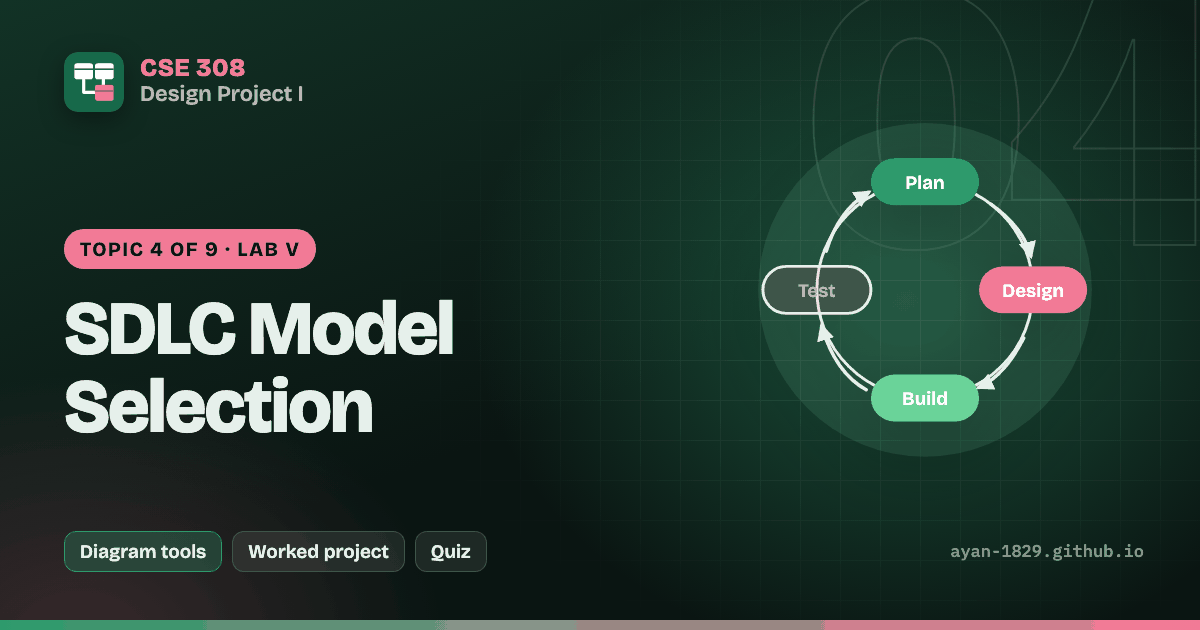
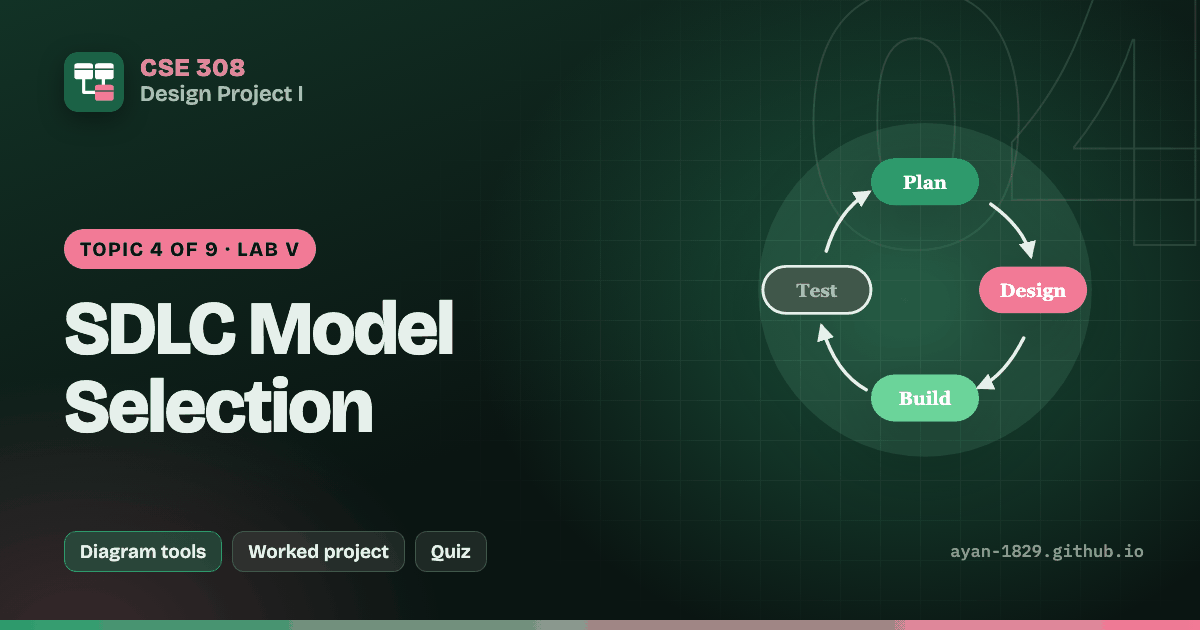
SDLC cover: make browsers load the new drawing; redraw its share card
art.js is now linked as art.js?v=2, so cached copies with the old ring
are replaced. The topic 4 share card is regenerated without the ring
and its og:image version bumped.

diff --git a/topics/04-sdlc-model-selection.html b/topics/04-sdlc-model-selection.html
@@ -22,7 +22,7 @@
 <meta property="og:title" content="SDLC Model Selection – Topic 4 | CSE 308 Design Project I">
 <meta property="og:description" content="The six stages of the software development life cycle, the waterfall, iterative, V, spiral, agile and prototyping models, and how to choose one with a weighted comparison matrix. Interactive slides, diagrams, demos and a quiz for topic 4 of the CSE 308 Design Project I course.">
 <meta property="og:url" content="https://ayan-1829.github.io/CSE-308-Design-Project-I/topics/04-sdlc-model-selection.html">
-<meta property="og:image" content="https://ayan-1829.github.io/CSE-308-Design-Project-I/img/og/04-sdlc-model-selection.png?v=2">
+<meta property="og:image" content="https://ayan-1829.github.io/CSE-308-Design-Project-I/img/og/04-sdlc-model-selection.png?v=3">
 <meta property="og:image:type" content="image/png">
 <meta property="og:image:width" content="1200">
 <meta property="og:image:height" content="630">
@@ -30,7 +30,7 @@
 <meta name="twitter:card" content="summary_large_image">
 <meta name="twitter:title" content="SDLC Model Selection – Topic 4 | CSE 308 Design Project I">
 <meta name="twitter:description" content="The six stages of the software development life cycle, the waterfall, iterative, V, spiral, agile and prototyping models, and how to choose one with a weighted comparison matrix. Interactive slides, diagrams, demos and a quiz for topic 4 of the CSE 308 Design Project I course.">
-<meta name="twitter:image" content="https://ayan-1829.github.io/CSE-308-Design-Project-I/img/og/04-sdlc-model-selection.png?v=2">
+<meta name="twitter:image" content="https://ayan-1829.github.io/CSE-308-Design-Project-I/img/og/04-sdlc-model-selection.png?v=3">
 <meta name="twitter:image:alt" content="SDLC Model Selection – Topic 4 | CSE 308 Design Project I">
 <script type="application/ld+json">{"@context": "https://schema.org", "@type": "LearningResource", "name": "SDLC Model Selection", "description": "The six stages of the software development life cycle, the waterfall, iterative, V, spiral, agile and prototyping models, and how to choose one with a weighted comparison matrix.", "position": 4, "educationalLevel": "Undergraduate", "learningResourceType": "Lecture slides", "inLanguage": "en", "isAccessibleForFree": true, "teaches": ["The SDLC has six stages: planning, requirements (SRS), design (DDS), building, testing, deployment and maintenance.", "Waterfall and V-model suit fixed requirements; the V-model plans a test for every phase.", "Iterative delivers growing versions; spiral adds a risk-analysis loop for large risky projects.", "Agile uses short sprints and constant feedback; prototyping discovers unclear requirements.", "Choose with a weighted matrix: criteria phrased so Yes is good, honest weights, recomputed totals.", "Justify the choice in words and say how you will adapt the model."], "keywords": "SDLC, software development life cycle, waterfall model, iterative model, V-model, spiral model, agile, scrum, prototyping model, SDLC model selection, comparison matrix, CSE 308", "url": "https://ayan-1829.github.io/CSE-308-Design-Project-I/topics/04-sdlc-model-selection.html", "image": "https://ayan-1829.github.io/CSE-308-Design-Project-I/img/og/04-sdlc-model-selection.png", "isPartOf": {"@type": "Course", "name": "Design Project I", "courseCode": "CSE 308", "url": "https://ayan-1829.github.io/CSE-308-Design-Project-I/"}}</script>
 <script type="application/ld+json">{"@context": "https://schema.org", "@type": "BreadcrumbList", "itemListElement": [{"@type": "ListItem", "position": 1, "name": "Design Project I", "item": "https://ayan-1829.github.io/CSE-308-Design-Project-I/"}, {"@type": "ListItem", "position": 2, "name": "Topic 4: SDLC Model Selection", "item": "https://ayan-1829.github.io/CSE-308-Design-Project-I/topics/04-sdlc-model-selection.html"}]}</script>
@@ -165,7 +165,7 @@
 <aside id="slide-menu" hidden aria-label="Slide list"><div class="menu-head"><h3>Slides in this topic</h3><button type="button" id="btn-menu-close" class="menu-close" aria-label="Close slide list">&#10005;</button></div></aside>
 <noscript><p style="padding:20px">This lesson needs JavaScript for the slides and the interactive examples.</p></noscript>
 <script src="../js/core.js"></script>
-<script src="../js/art.js"></script>
+<script src="../js/art.js?v=2"></script>
 <script src="../js/diagram.js"></script>
 <script src="../js/figs.js"></script>
 <script src="../js/latex.js"></script>

diff --git a/topics/08-uml-class-diagrams.html b/topics/08-uml-class-diagrams.html
@@ -186,7 +186,7 @@ class DebitCard implements Payable { ... }</pre></div><div><div class="co-h">Out
 <aside id="slide-menu" hidden aria-label="Slide list"><div class="menu-head"><h3>Slides in this topic</h3><button type="button" id="btn-menu-close" class="menu-close" aria-label="Close slide list">&#10005;</button></div></aside>
 <noscript><p style="padding:20px">This lesson needs JavaScript for the slides and the interactive examples.</p></noscript>
 <script src="../js/core.js"></script>
-<script src="../js/art.js"></script>
+<script src="../js/art.js?v=2"></script>
 <script src="../js/diagram.js"></script>
 <script src="../js/figs.js"></script>
 <script src="../js/latex.js"></script>

diff --git a/topics/00-worked-project-campuscare.html b/topics/00-worked-project-campuscare.html
@@ -220,7 +220,7 @@ the free slots from store D2~\cite{demarco1978}.
 <aside id="slide-menu" hidden aria-label="Slide list"><div class="menu-head"><h3>Slides in this topic</h3><button type="button" id="btn-menu-close" class="menu-close" aria-label="Close slide list">&#10005;</button></div></aside>
 <noscript><p style="padding:20px">This lesson needs JavaScript for the slides and the interactive examples.</p></noscript>
 <script src="../js/core.js"></script>
-<script src="../js/art.js"></script>
+<script src="../js/art.js?v=2"></script>
 <script src="../js/diagram.js"></script>
 <script src="../js/figs.js"></script>
 <script src="../js/latex.js"></script>

diff --git a/index.html b/index.html
@@ -90,7 +90,7 @@
 <footer class="site-foot small muted"><p>Design Project I (CSE 308) · interactive course notes, version 1. Independent study notes that follow the CSE 308 lab outline at Green University of Bangladesh; they are not an official university page. <a href="resources.html">Further learning</a> · <a href="reference.html">Quick reference</a></p></footer>
 </div>
 <script src="js/core.js"></script>
-<script src="js/art.js"></script>
+<script src="js/art.js?v=2"></script>
 <script src="js/analytics.js"
         data-endpoint="https://analytics-proxy.ayansarkar1829.workers.dev"
         data-project="CSE-308 Design Project"></script>

diff --git a/topics/02-technical-report-writing-with-latex.html b/topics/02-technical-report-writing-with-latex.html
@@ -712,7 +712,7 @@ S_n = \frac{1}{n}\sum_{i=1}^{n} X_i
 <aside id="slide-menu" hidden aria-label="Slide list"><div class="menu-head"><h3>Slides in this topic</h3><button type="button" id="btn-menu-close" class="menu-close" aria-label="Close slide list">&#10005;</button></div></aside>
 <noscript><p style="padding:20px">This lesson needs JavaScript for the slides and the interactive examples.</p></noscript>
 <script src="../js/core.js"></script>
-<script src="../js/art.js"></script>
+<script src="../js/art.js?v=2"></script>
 <script src="../js/diagram.js"></script>
 <script src="../js/figs.js"></script>
 <script src="../js/latex.js"></script>

diff --git a/topics/06-uml-use-case-diagrams.html b/topics/06-uml-use-case-diagrams.html
@@ -166,7 +166,7 @@ P ..&gt; W : &lt;&lt;extend&gt;&gt;
 <aside id="slide-menu" hidden aria-label="Slide list"><div class="menu-head"><h3>Slides in this topic</h3><button type="button" id="btn-menu-close" class="menu-close" aria-label="Close slide list">&#10005;</button></div></aside>
 <noscript><p style="padding:20px">This lesson needs JavaScript for the slides and the interactive examples.</p></noscript>
 <script src="../js/core.js"></script>
-<script src="../js/art.js"></script>
+<script src="../js/art.js?v=2"></script>
 <script src="../js/diagram.js"></script>
 <script src="../js/figs.js"></script>
 <script src="../js/latex.js"></script>

diff --git a/topics/07-uml-sequence-and-communication-diagrams.html b/topics/07-uml-sequence-and-communication-diagrams.html
@@ -168,7 +168,7 @@ end
 <aside id="slide-menu" hidden aria-label="Slide list"><div class="menu-head"><h3>Slides in this topic</h3><button type="button" id="btn-menu-close" class="menu-close" aria-label="Close slide list">&#10005;</button></div></aside>
 <noscript><p style="padding:20px">This lesson needs JavaScript for the slides and the interactive examples.</p></noscript>
 <script src="../js/core.js"></script>
-<script src="../js/art.js"></script>
+<script src="../js/art.js?v=2"></script>
 <script src="../js/diagram.js"></script>
 <script src="../js/figs.js"></script>
 <script src="../js/latex.js"></script>

diff --git a/topics/01-team-formation-and-project-planning.html b/topics/01-team-formation-and-project-planning.html
@@ -174,7 +174,7 @@
 <aside id="slide-menu" hidden aria-label="Slide list"><div class="menu-head"><h3>Slides in this topic</h3><button type="button" id="btn-menu-close" class="menu-close" aria-label="Close slide list">&#10005;</button></div></aside>
 <noscript><p style="padding:20px">This lesson needs JavaScript for the slides and the interactive examples.</p></noscript>
 <script src="../js/core.js"></script>
-<script src="../js/art.js"></script>
+<script src="../js/art.js?v=2"></script>
 <script src="../js/diagram.js"></script>
 <script src="../js/figs.js"></script>
 <script src="../js/latex.js"></script>

diff --git a/topics/03-ieee-software-requirements-specification.html b/topics/03-ieee-software-requirements-specification.html
@@ -186,7 +186,7 @@
 <aside id="slide-menu" hidden aria-label="Slide list"><div class="menu-head"><h3>Slides in this topic</h3><button type="button" id="btn-menu-close" class="menu-close" aria-label="Close slide list">&#10005;</button></div></aside>
 <noscript><p style="padding:20px">This lesson needs JavaScript for the slides and the interactive examples.</p></noscript>
 <script src="../js/core.js"></script>
-<script src="../js/art.js"></script>
+<script src="../js/art.js?v=2"></script>
 <script src="../js/diagram.js"></script>
 <script src="../js/figs.js"></script>
 <script src="../js/latex.js"></script>

diff --git a/topics/05-data-flow-diagrams-level-0-and-1.html b/topics/05-data-flow-diagrams-level-0-and-1.html
@@ -150,7 +150,7 @@
 <aside id="slide-menu" hidden aria-label="Slide list"><div class="menu-head"><h3>Slides in this topic</h3><button type="button" id="btn-menu-close" class="menu-close" aria-label="Close slide list">&#10005;</button></div></aside>
 <noscript><p style="padding:20px">This lesson needs JavaScript for the slides and the interactive examples.</p></noscript>
 <script src="../js/core.js"></script>
-<script src="../js/art.js"></script>
+<script src="../js/art.js?v=2"></script>
 <script src="../js/diagram.js"></script>
 <script src="../js/figs.js"></script>
 <script src="../js/latex.js"></script>

diff --git a/topics/09-ui-ux-foundations-and-figma-wireframing.html b/topics/09-ui-ux-foundations-and-figma-wireframing.html
@@ -156,7 +156,7 @@
 <aside id="slide-menu" hidden aria-label="Slide list"><div class="menu-head"><h3>Slides in this topic</h3><button type="button" id="btn-menu-close" class="menu-close" aria-label="Close slide list">&#10005;</button></div></aside>
 <noscript><p style="padding:20px">This lesson needs JavaScript for the slides and the interactive examples.</p></noscript>
 <script src="../js/core.js"></script>
-<script src="../js/art.js"></script>
+<script src="../js/art.js?v=2"></script>
 <script src="../js/diagram.js"></script>
 <script src="../js/figs.js"></script>
 <script src="../js/latex.js"></script>
